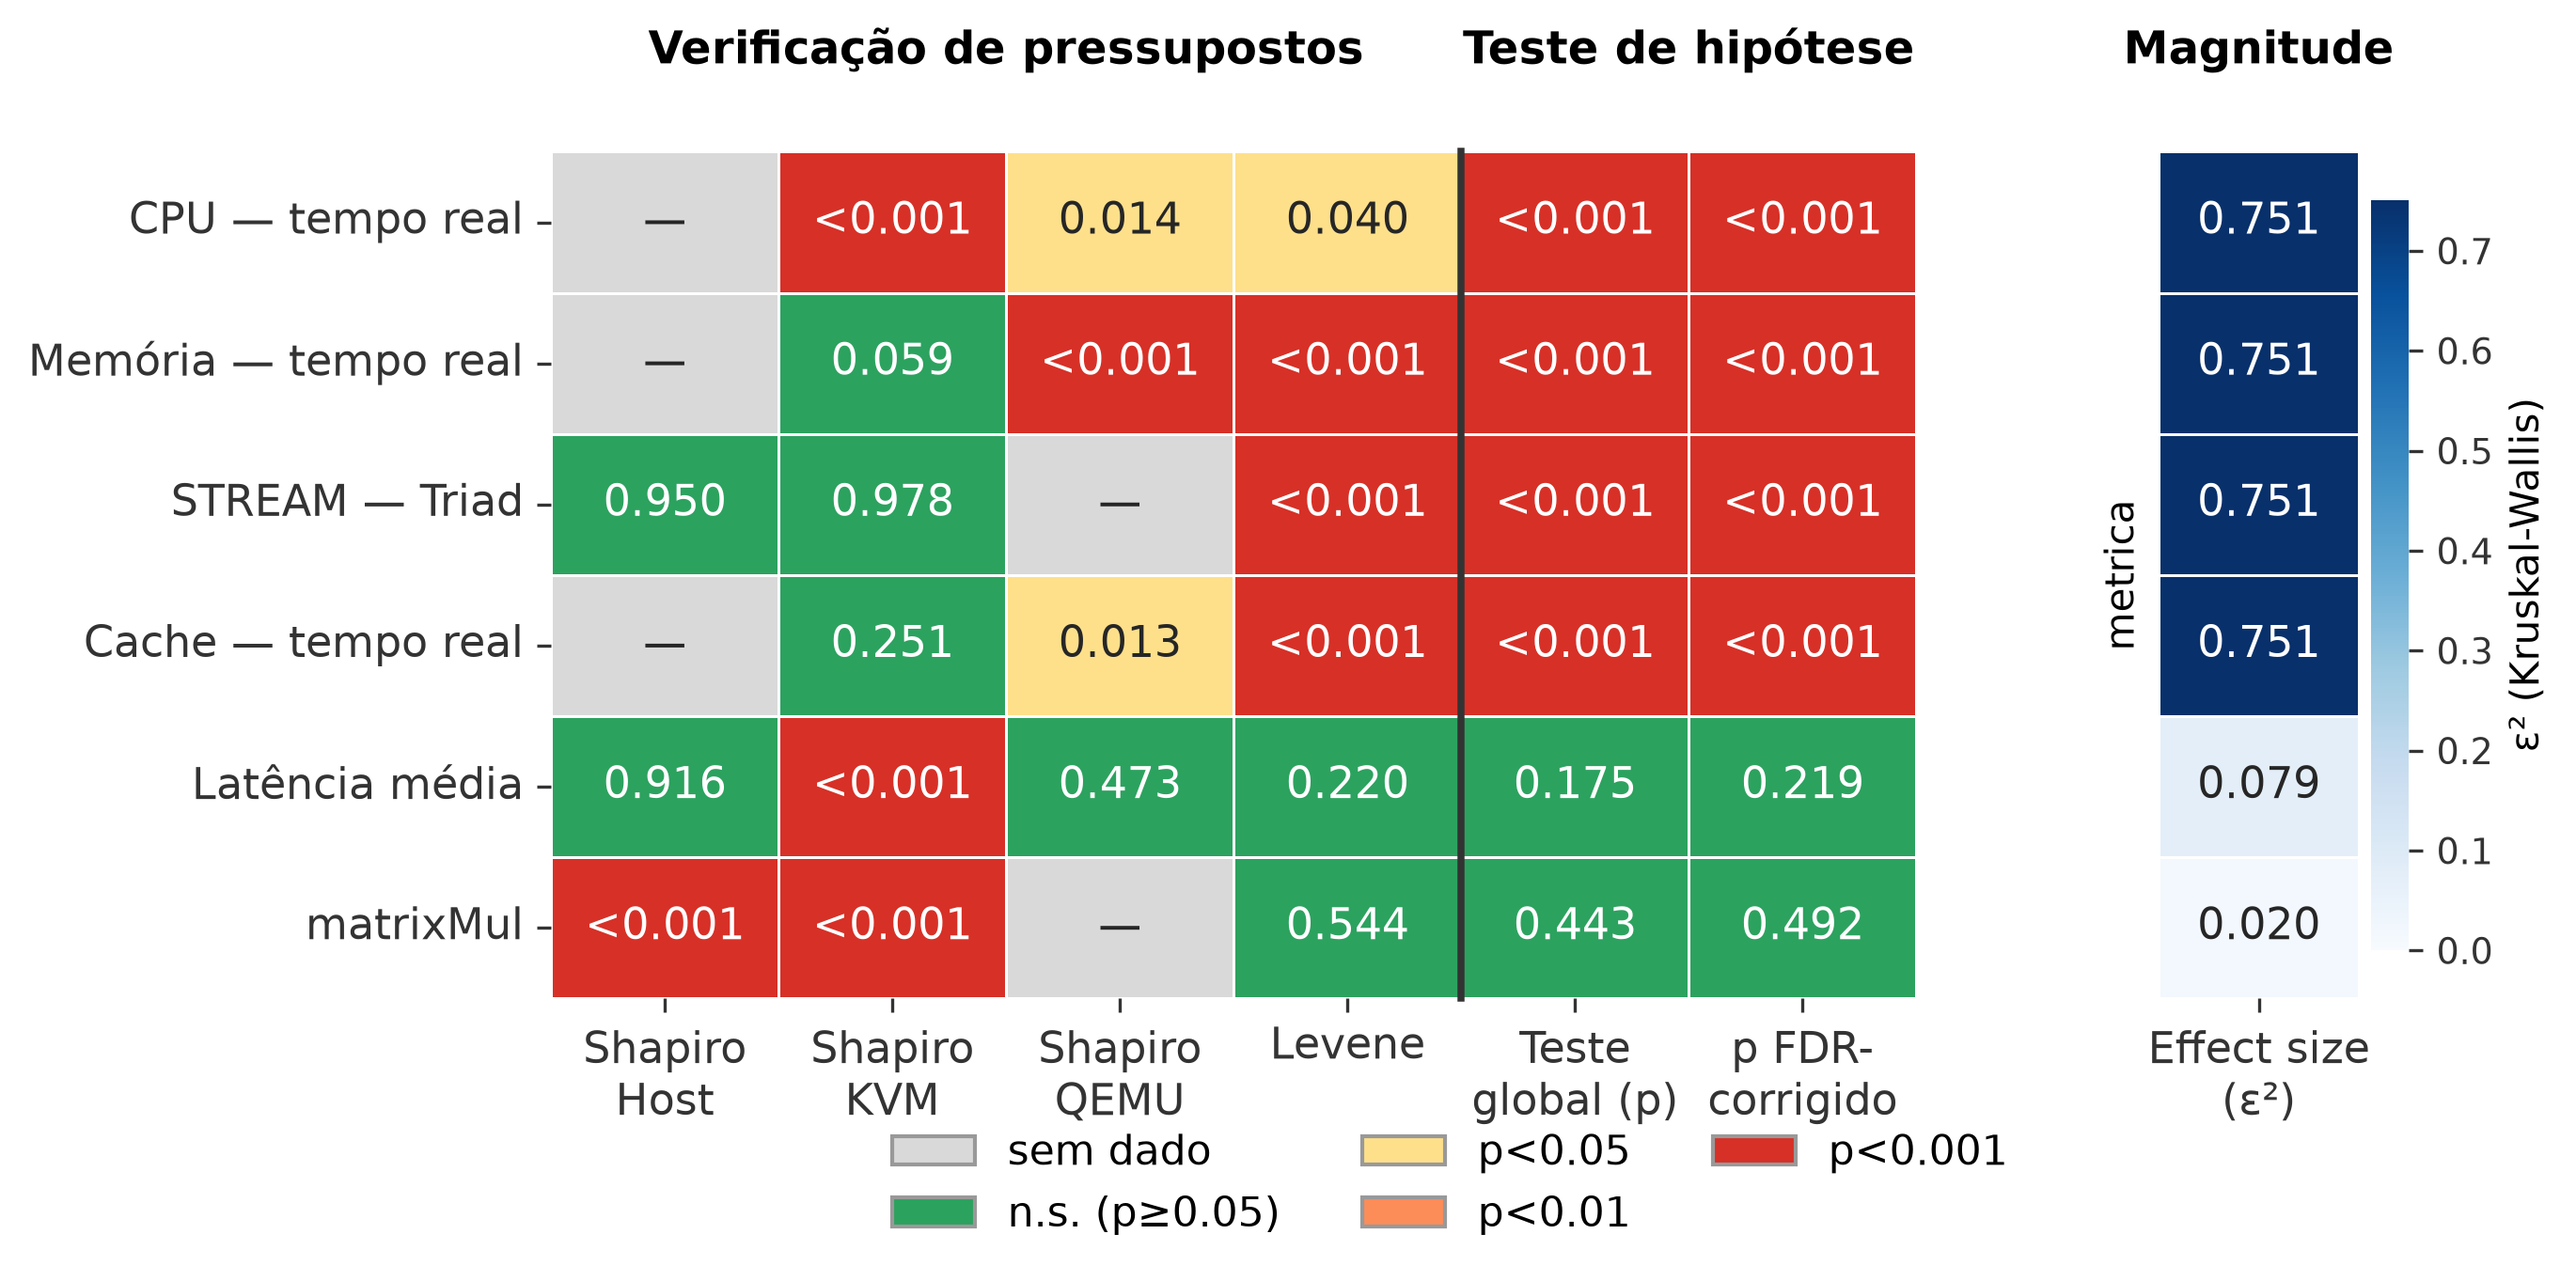
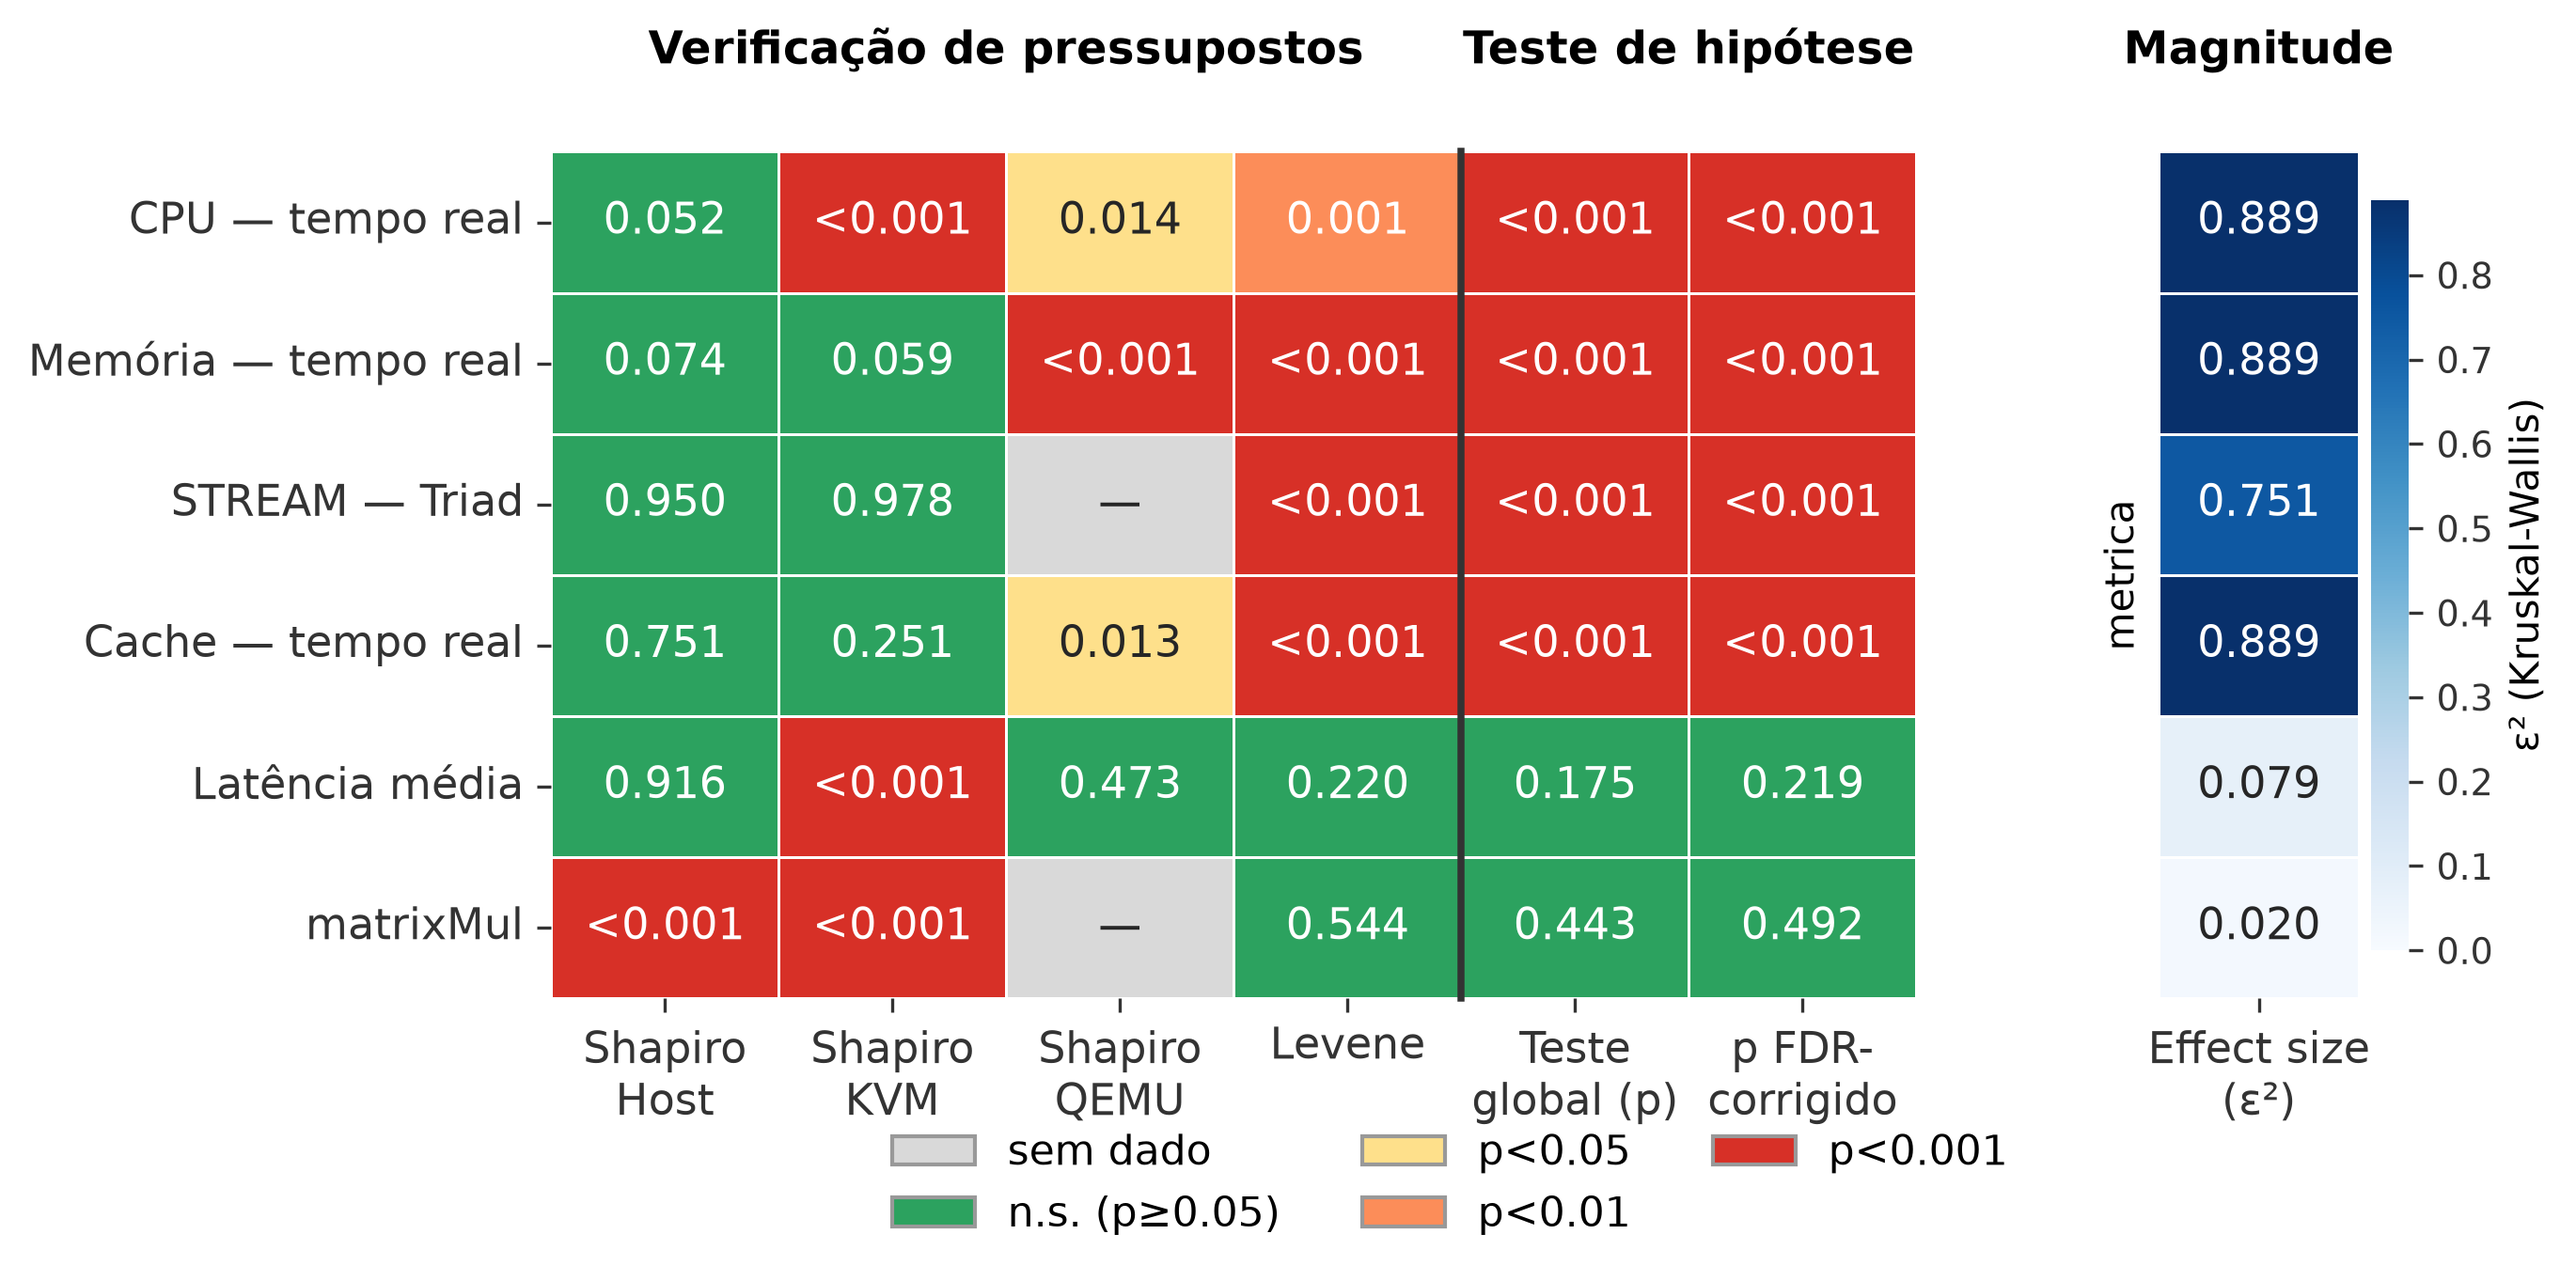
fix: parser não reconhecia cabeçalhos com sufixo de taskset (CPU/memória/cache)
extract_section buscava a linha exata "=== CPU ===", mas os logs mais
recentes trazem "=== CPU (taskset -c ...) ===" (ver correção do
benchmark-host.sh). O regex passa a usar \b em vez de exigir o texto
completo, e os 15 arquivos de host voltam a contribuir dados de
CPU/memória/cache — reprocessados nas saídas derivadas.

diff --git a/src/analysis/analise_benchmarks.py b/src/analysis/analise_benchmarks.py
@@ -210,14 +210,14 @@ def parse_file(path: str, ambiente: str, vm_id: str = "host",
                           "timestamp": timestamp, "metrica": metric, "valor": value})
 
     # --- CPU ---
-    cpu_block = extract_section(text, r"^=== CPU ===")
+    cpu_block = extract_section(text, r"^=== CPU\b")
     cpu_res = parse_stressng_block(cpu_block, "cpu")
     if cpu_res:
         add("cpu_bogo_ops_s_real", cpu_res["bogo_ops_s_real"])
         add("cpu_bogo_ops_s_cpu", cpu_res["bogo_ops_s_cpu"])
 
     # --- MEMÓRIA ---
-    mem_block = extract_section(text, r"^=== MEMÓRIA ===")
+    mem_block = extract_section(text, r"^=== MEMÓRIA\b")
     mem_res = None
     for stressor_guess in ("vm", "memhotplug", "malloc", "mem"):
         mem_res = parse_stressng_block(mem_block, stressor_guess)
@@ -228,7 +228,7 @@ def parse_file(path: str, ambiente: str, vm_id: str = "host",
         add("mem_bogo_ops_s_cpu", mem_res["bogo_ops_s_cpu"])
 
     # --- CACHE ---
-    cache_block = extract_section(text, r"^=== CACHE ===")
+    cache_block = extract_section(text, r"^=== CACHE\b")
     cache_res = parse_stressng_block(cache_block, "cache")
     if cache_res:
         add("cache_bogo_ops_s_real", cache_res["bogo_ops_s_real"])
